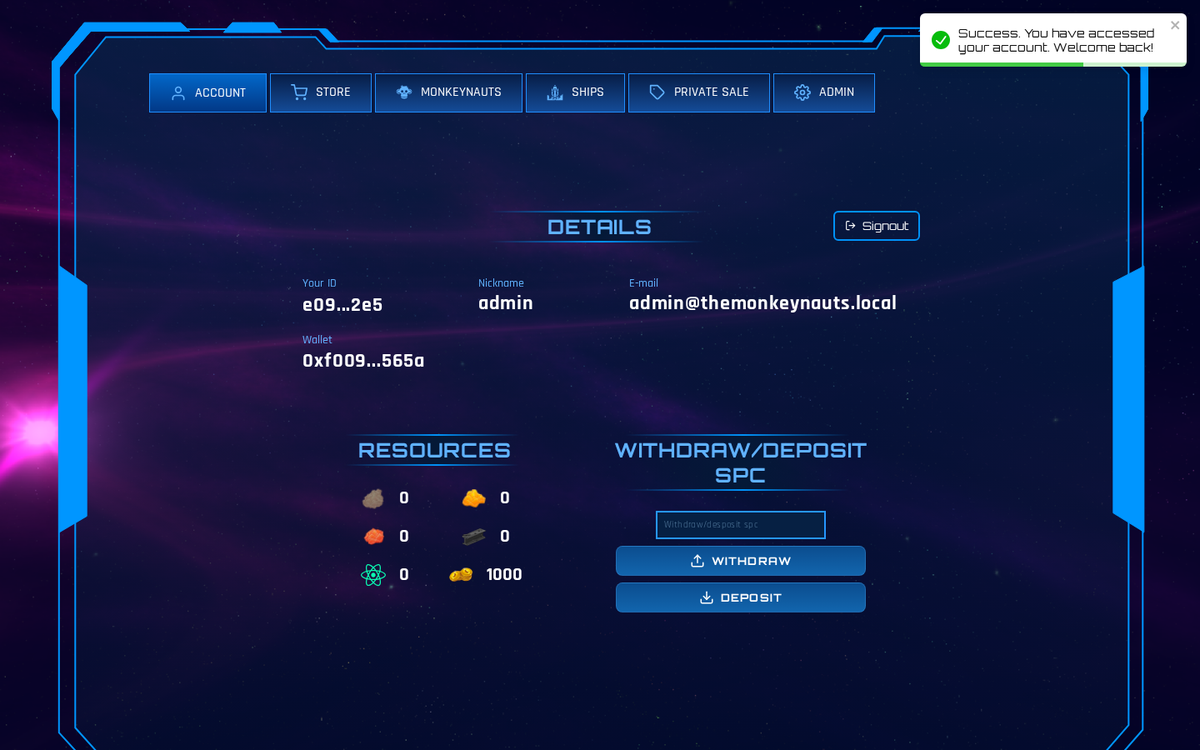
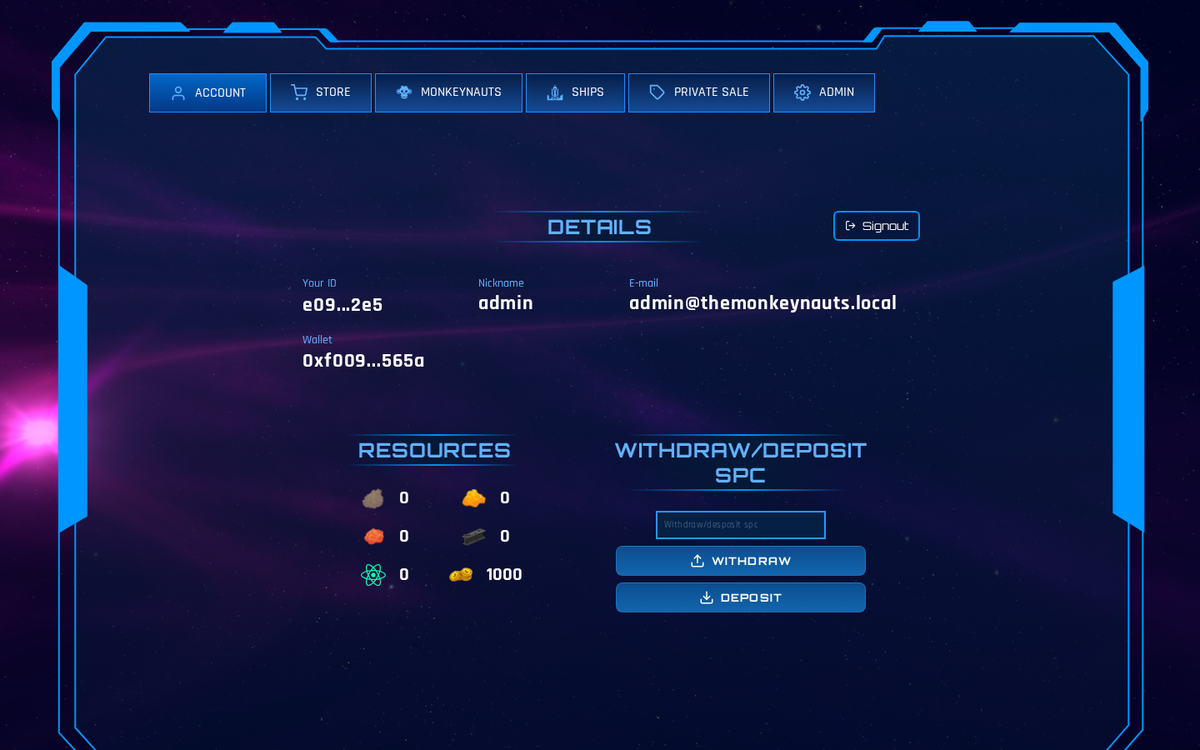
chore: bump runtime to Node 24 LTS and refresh account screenshot
- .nvmrc 24, engines >=24, tsup target node24
- docs updated (README stack table, clean-architecture tech table)
- account screenshot retaken after the welcome toast auto-dismisses

Changed region(s): [[0.74, 0.0, 1.0, 0.092]]

diff --git a/README.md b/README.md
@@ -29,7 +29,7 @@ Bring a dead 2022 crypto game back to life as a clean, fully local, credential-f
 | Layer | Technologies |
 |---|---|
 | **Web** | React 19, Vite, TypeScript 5, styled-components 6, react-router 7, react-hook-form + yup, axios, ethers v6 |
-| **API** | Node 22, Express 5, TypeScript 5 (strict), zod, Prisma 6 + PostgreSQL, tsyringe, jsonwebtoken, ethers v6 |
+| **API** | Node 24 (LTS), Express 5, TypeScript 5 (strict), zod, Prisma 6 + PostgreSQL, tsyringe, jsonwebtoken, ethers v6 |
 | **Infra/dev** | pnpm workspaces, Docker (Postgres), tsx/tsup |
 
 ## The concept behind it

diff --git a/docs/clean-architecture.md b/docs/clean-architecture.md
@@ -177,7 +177,7 @@ Toda operação financeira grava um `Log` com `txHash` único. O provider blockc
 
 | Papel | Tech |
 |---|---|
-| Runtime / linguagem | Node 22 · TypeScript 5 strict |
+| Runtime / linguagem | Node 24 (LTS) · TypeScript 5 strict |
 | HTTP | Express 5 |
 | Validação | zod |
 | Persistência | Prisma 6 · PostgreSQL |
